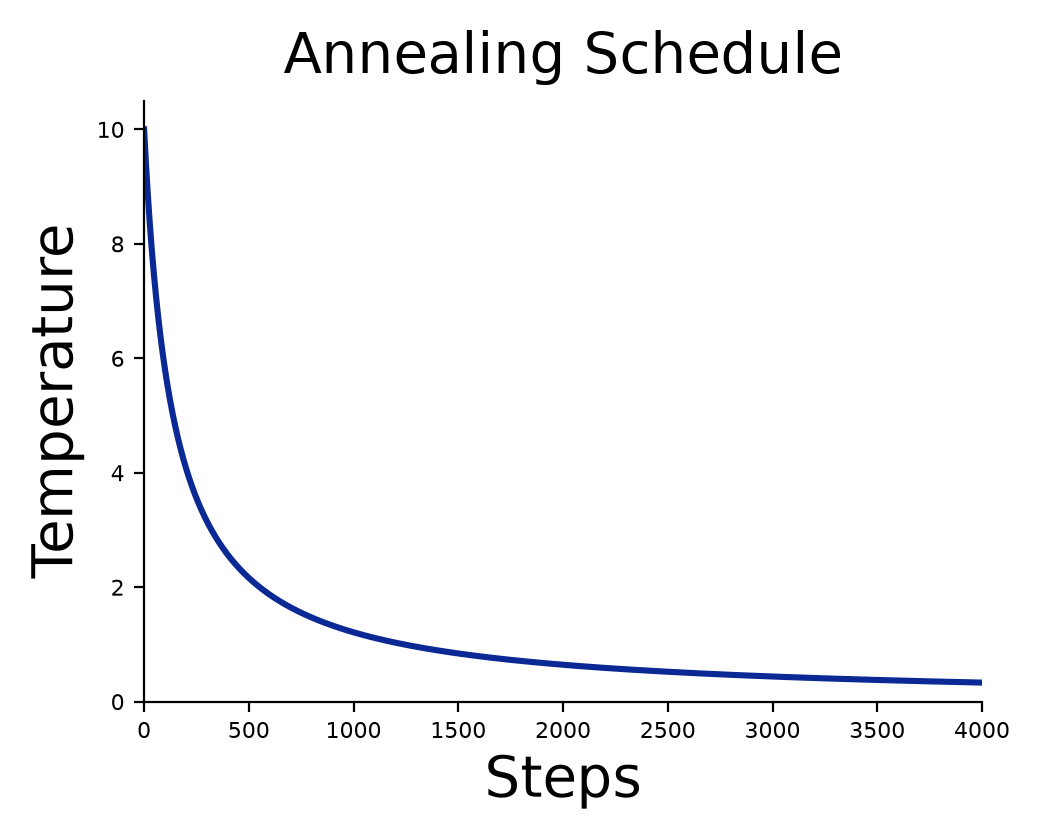
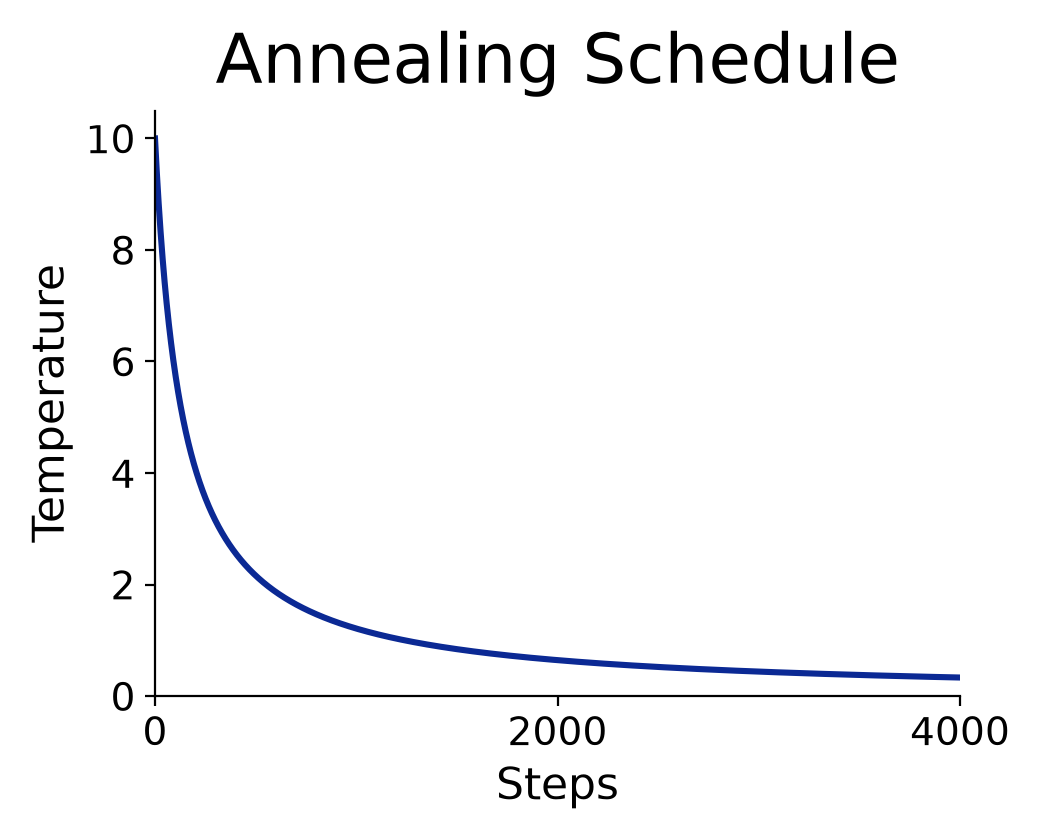
fixed the axis text size on the slide 3 graphic

Changed region(s): [[0.0308, 0.1238, 0.9846, 0.9595], [0.2154, 0.031, 0.8615, 0.1238]]

diff --git a/slide3graphic.py b/slide3graphic.py
@@ -18,7 +18,7 @@ fig, ax = plt.subplots(figsize=(5.2, 4.2), dpi=200)
 
 ax.plot(np.arange(N_STEPS), T, color="#0b2994", linewidth=2.2)
 
-ax.set_title("Annealing Schedule", fontsize=16, pad=10)
+ax.set_title("Annealing Schedule", fontsize=25, pad=10)
 ax.set_xlabel("Steps", fontsize=16)
 ax.set_ylabel("Temperature", fontsize=16)
 
@@ -27,7 +27,9 @@ ax.set_ylim(0, T.max() * 1.05)
 
 ax.spines['top'].set_visible(False)
 ax.spines['right'].set_visible(False)
-ax.tick_params(labelsize=8)
+
+ax.set_xticks([0, 2000, 4000])
+ax.tick_params(axis='both', labelsize=14)
 ax.grid(False)
 
 fig.tight_layout()